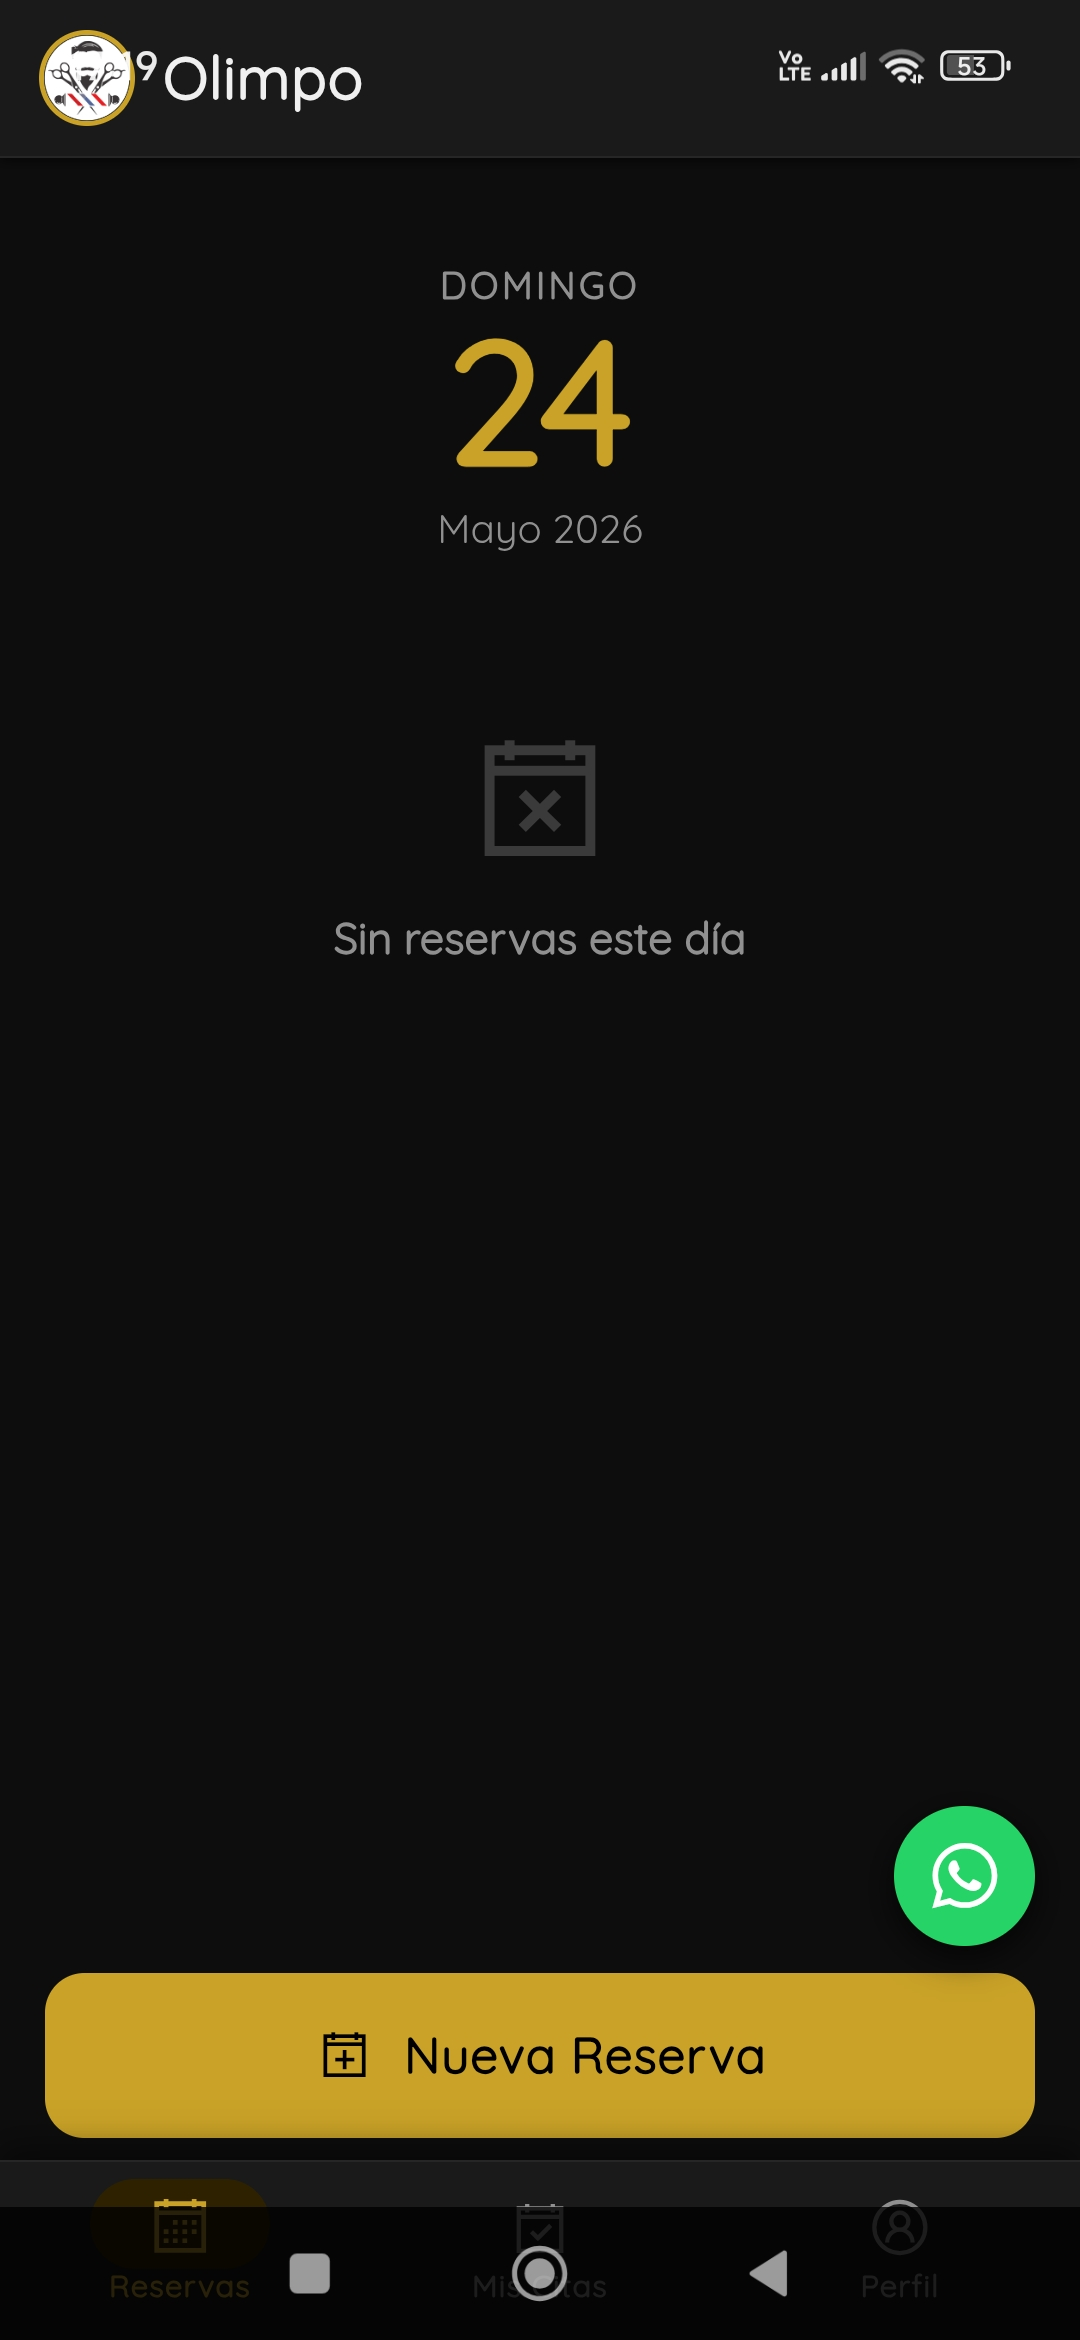
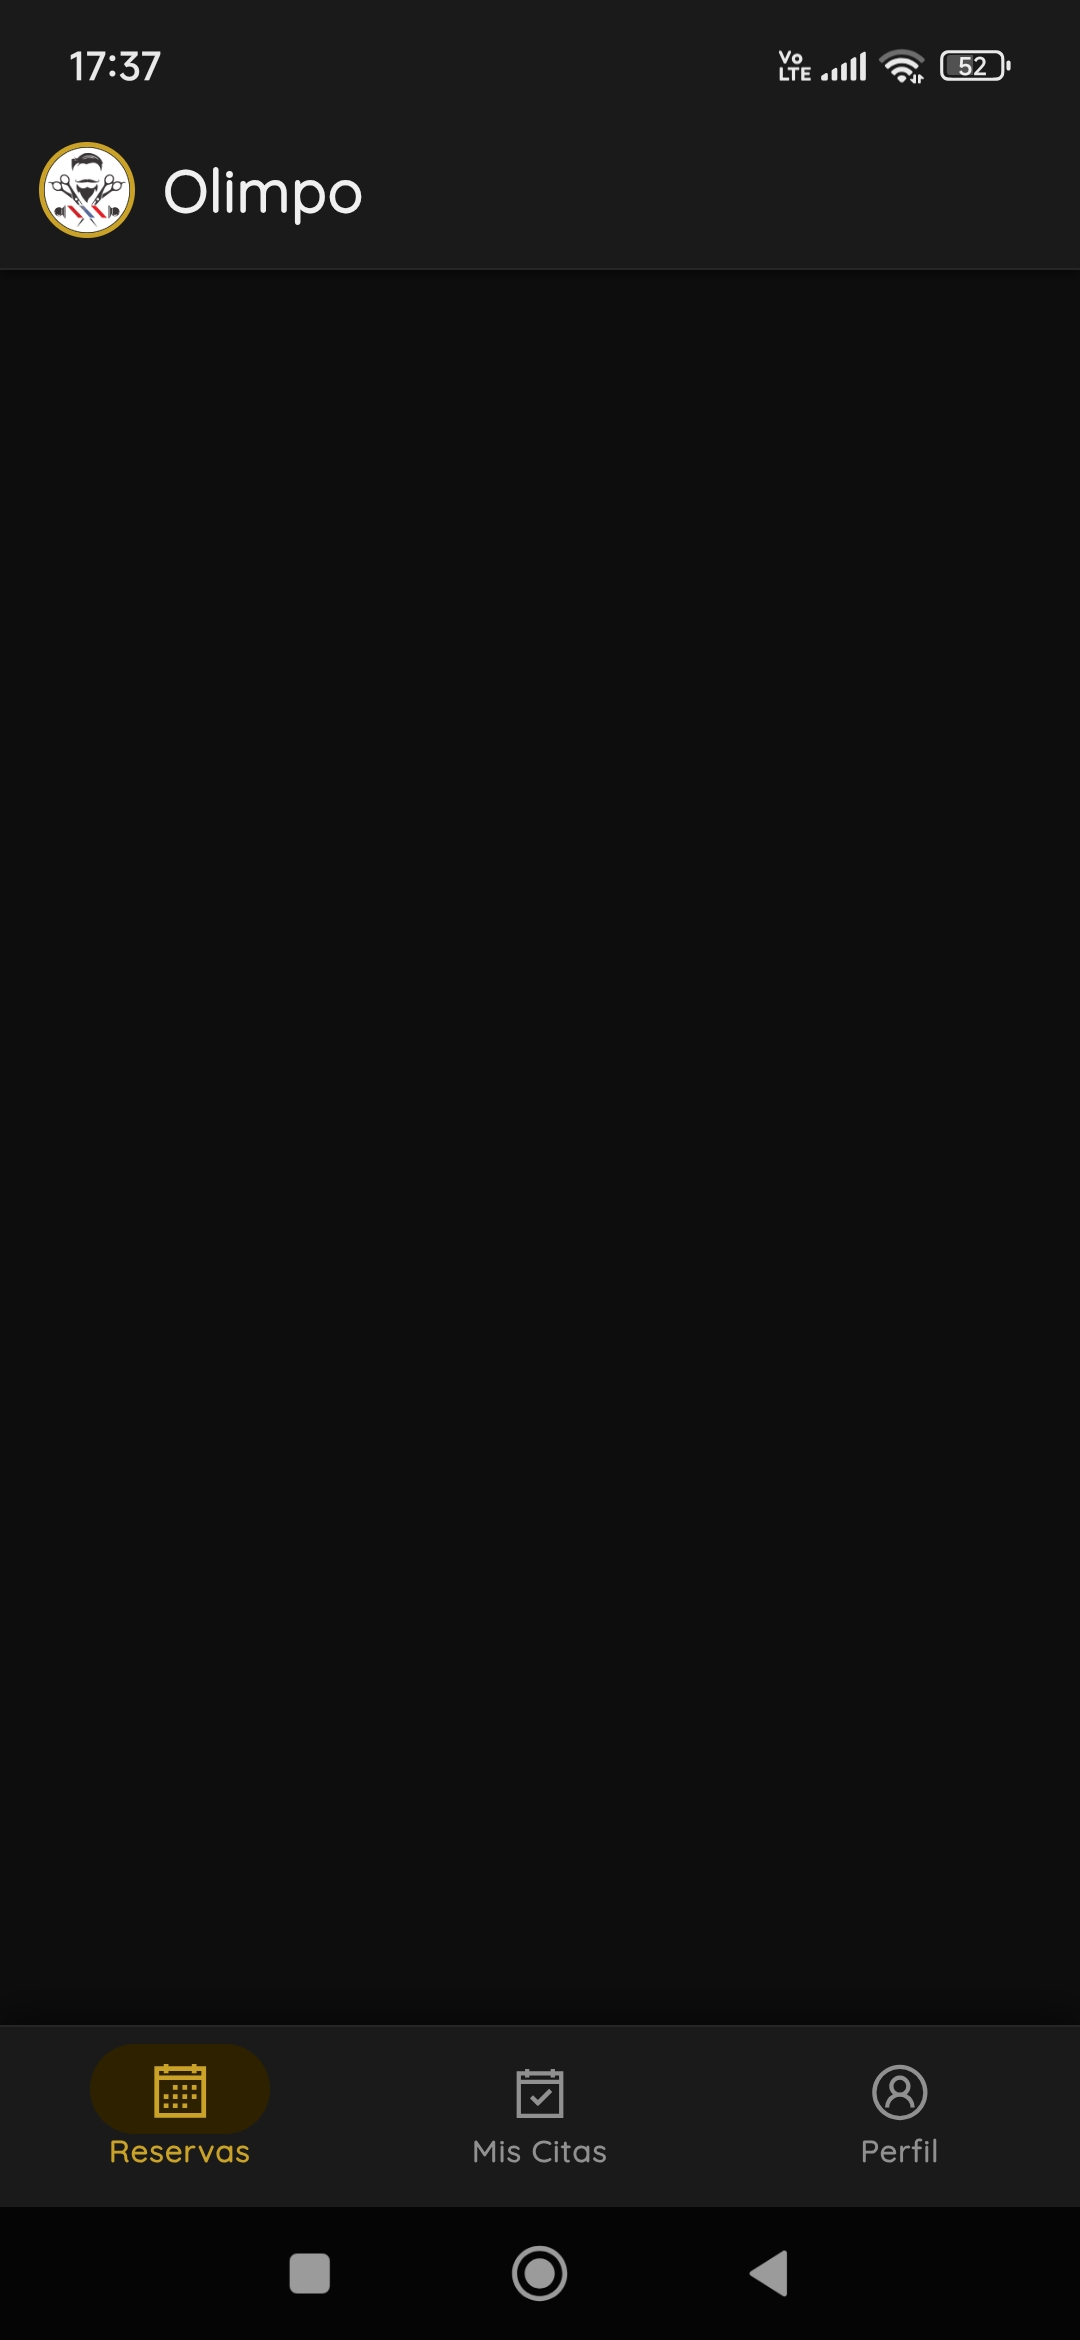
se optimizo carga

diff --git a/app/public/java/general.js b/app/public/java/general.js
@@ -74,7 +74,7 @@ function salir(){
             const resp=salir.data.valor.info;
             localStorage.removeItem('popup');
             desbloquea();
-            location.reload();  
+            window.location.replace('/');
         }catch (err) {
             desbloquea();	
             message=err.response.data.error.message;
@@ -153,7 +153,7 @@ async function datosUsuario(){
 
 function vistaMenuSubMenu(objeto){
     try{
-        $('#jsPropio').html("<script src='/java/"+objeto.ruta+".js?"+moment().format('DDMMYYYYHHmmss')+"'></script>");
+        $('#jsPropio').html("<script src='/java/"+objeto.ruta+".js?"+moment().format('DDMMYYYY')+"'></script>");
     }catch (err) {
         desbloquea();	
         message=err.response.data.error.message;